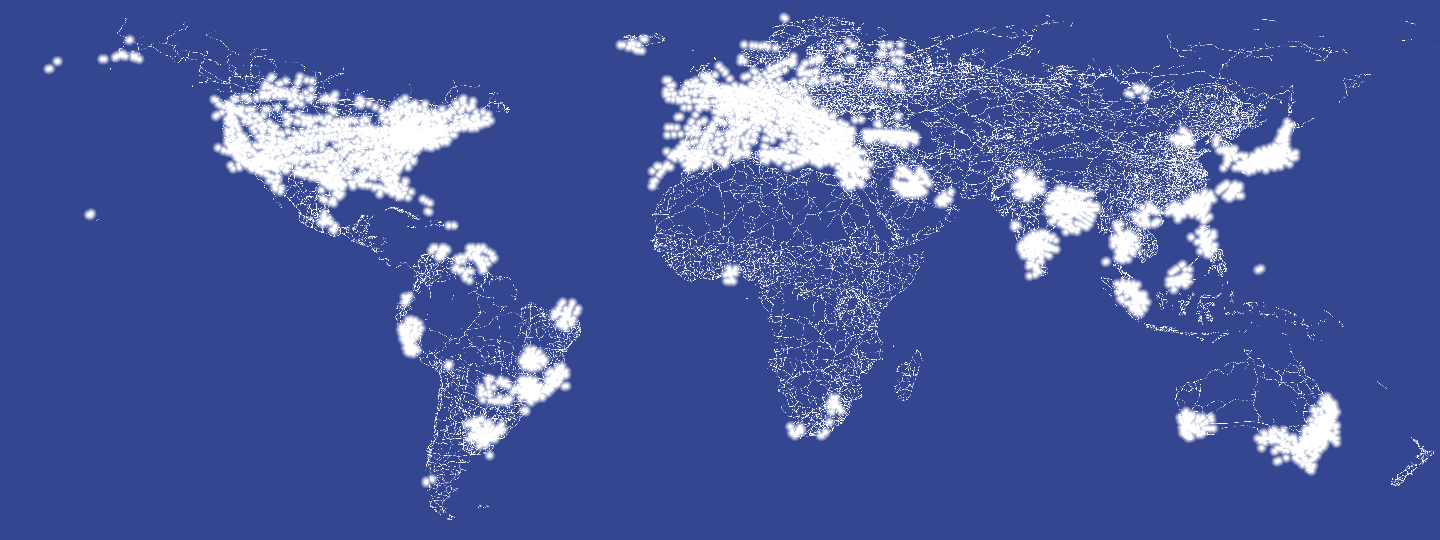
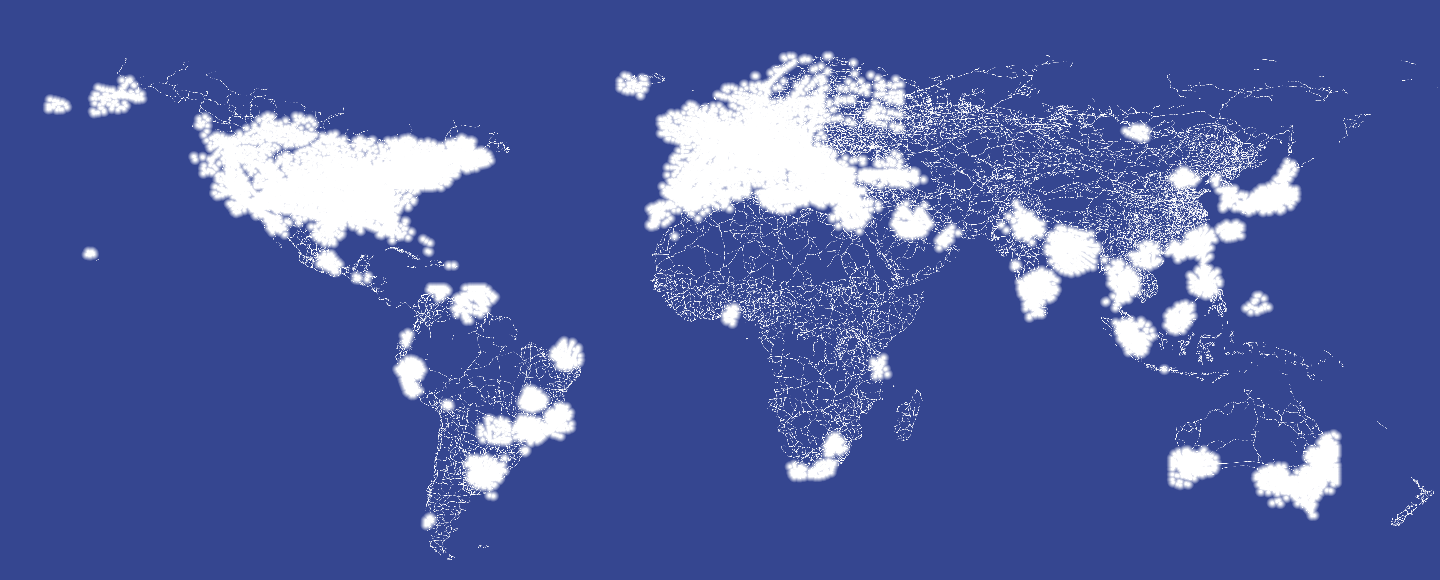
Extend quiet overlay to 85°N, fix white Arctic
LAT_MAX was 75°N — anything above showed as bare basemap.

diff --git a/docs/index.html b/docs/index.html
@@ -83,7 +83,7 @@ const tileLayers = {
 ['voyager','satellite','topo','dark','transport'].forEach(k => tileLayers[k].addTo(map));
 
 // Quiet zone image overlay (lat -60..75, lon -180..180)
-const quietOverlay = L.imageOverlay('quiet_overlay.png', [[-60, -180], [75, 180]], { opacity: 0, interactive: false });
+const quietOverlay = L.imageOverlay('quiet_overlay.png', [[-60, -180], [85, 180]], { opacity: 0, interactive: false });
 quietOverlay.addTo(map);
 const slQuiet = document.getElementById('sl-quiet');
 slQuiet.addEventListener('input', () => {

diff --git a/generate_quiet_overlay.py b/generate_quiet_overlay.py
@@ -25,7 +25,7 @@ NOISY_DEG_FLIGHTS = 0.29   # 20 miles
 NOISY_DEG_ROADS   = 0.015  # ~1 mile
 QUIET_DEG         = 1.5    # beyond this → fully opaque
 
-LAT_MIN, LAT_MAX = -60.0, 75.0
+LAT_MIN, LAT_MAX = -60.0, 85.0
 LON_MIN, LON_MAX = -180.0, 180.0
 
 R, G, B   = 10, 30, 120
